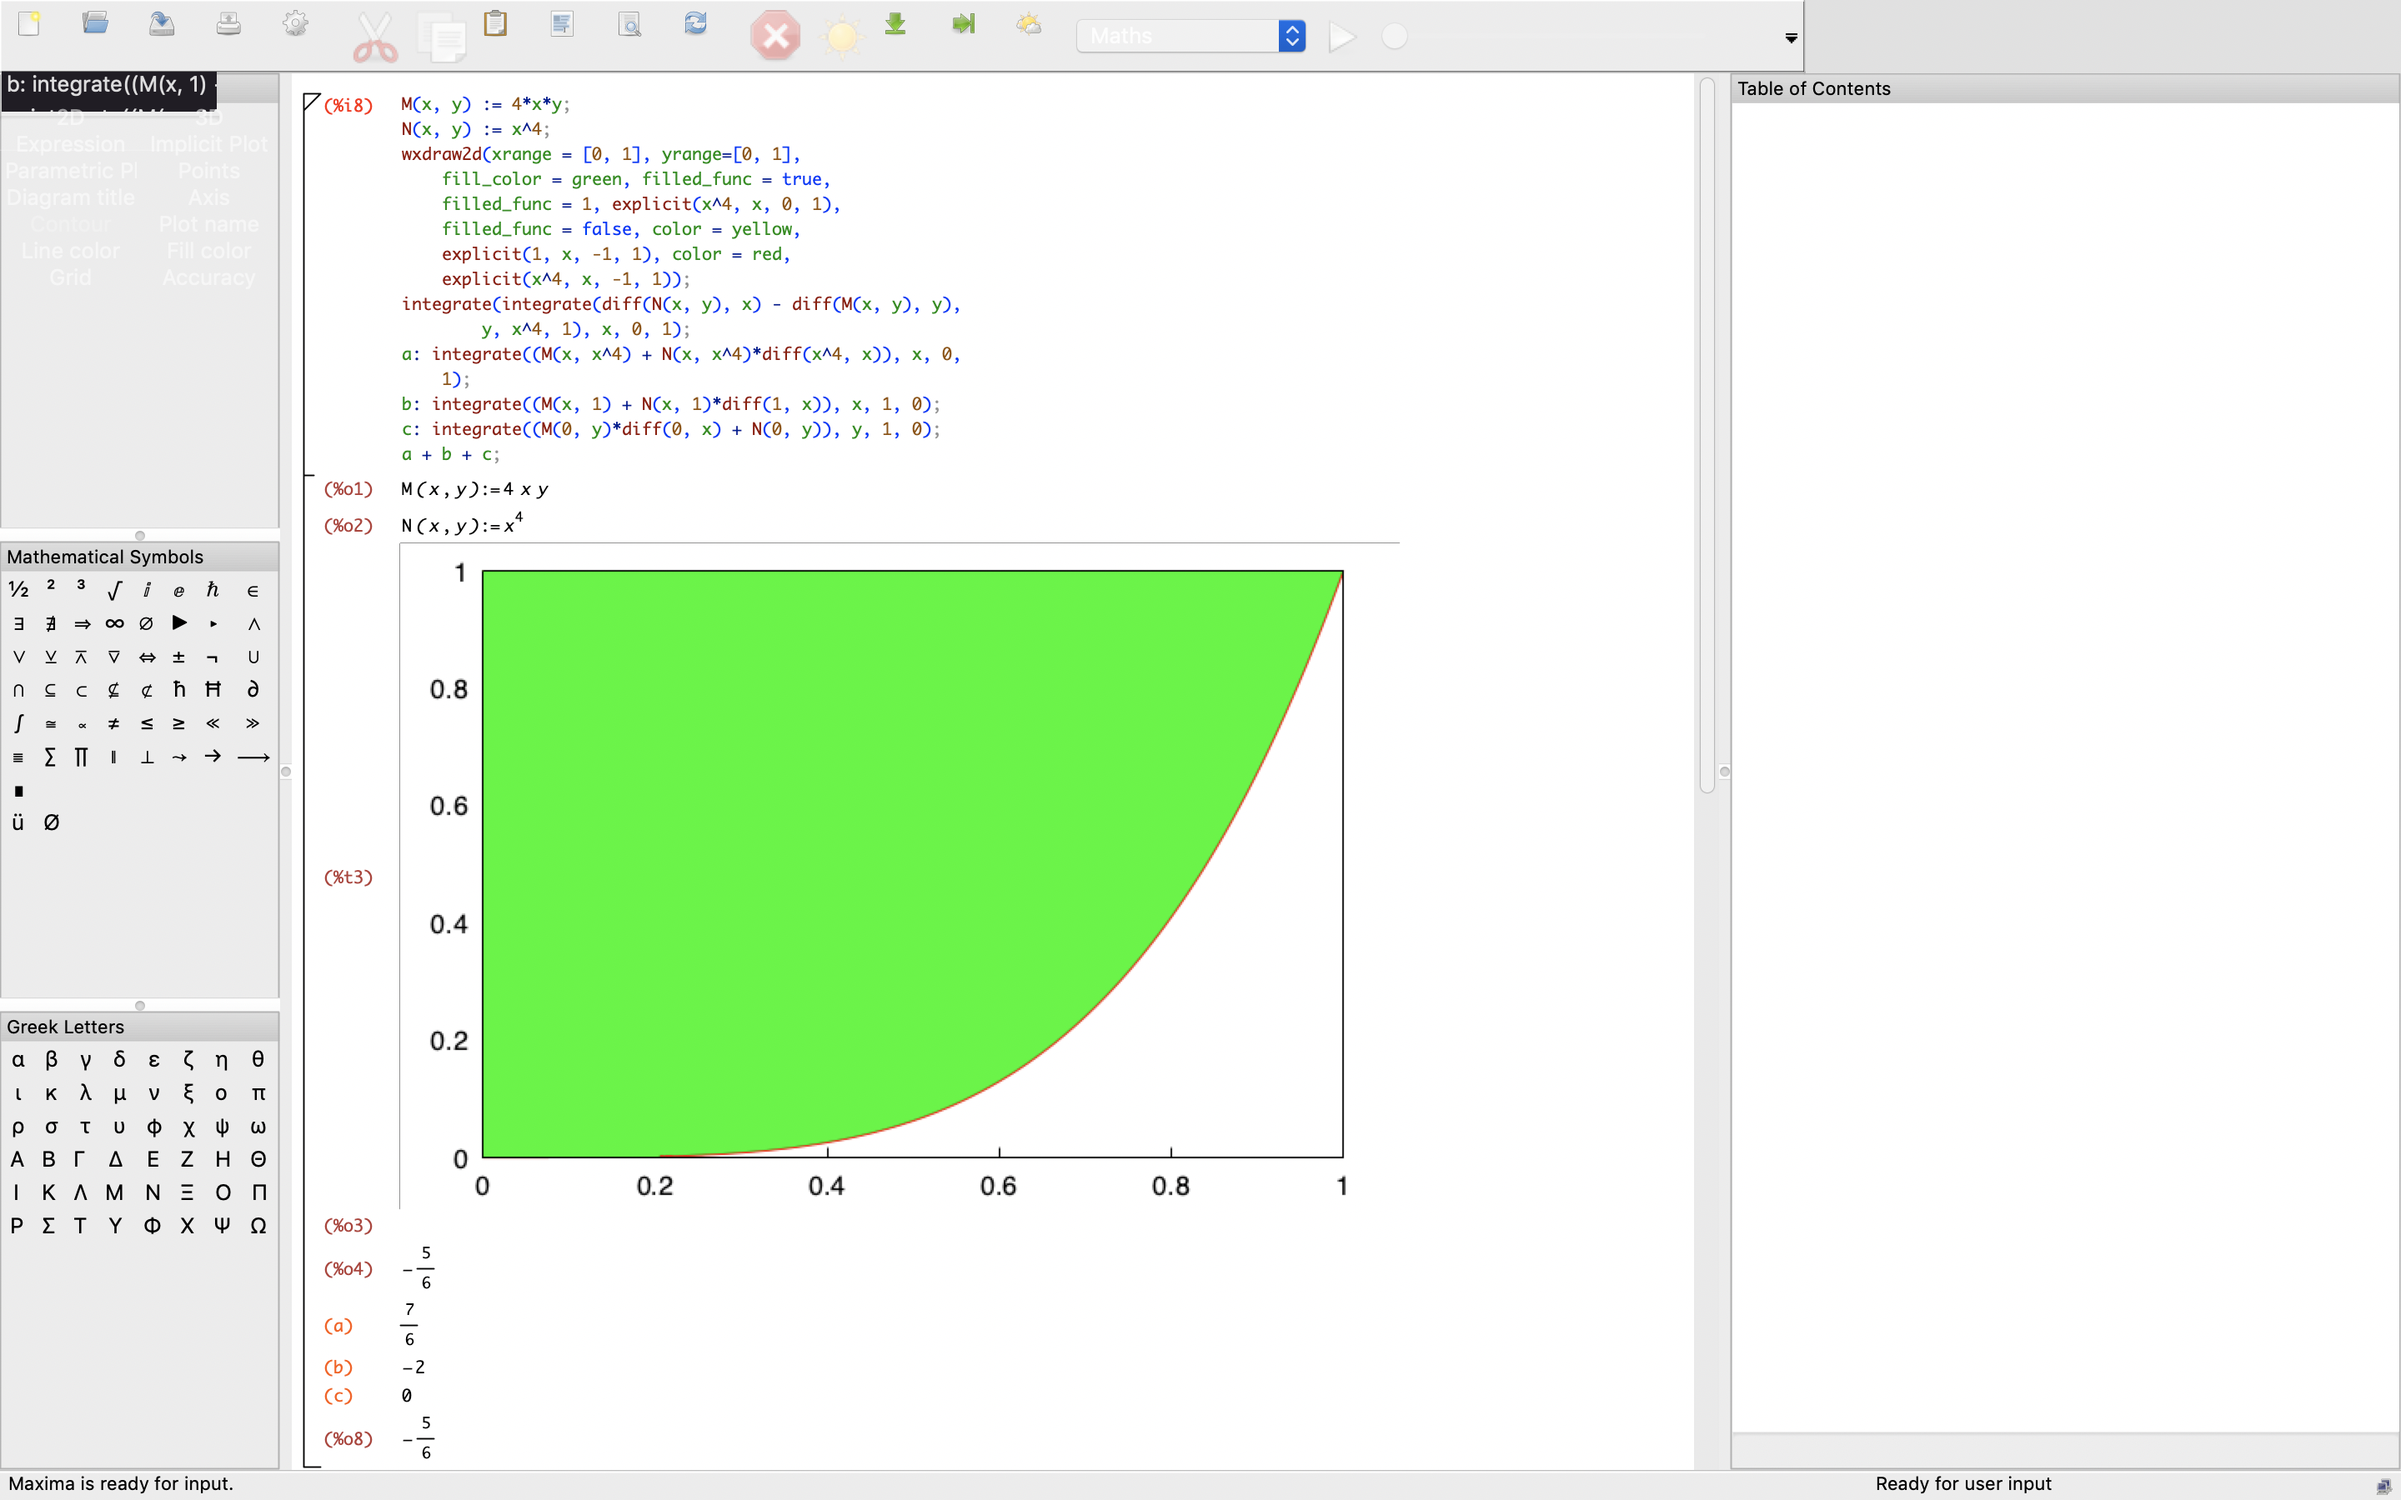
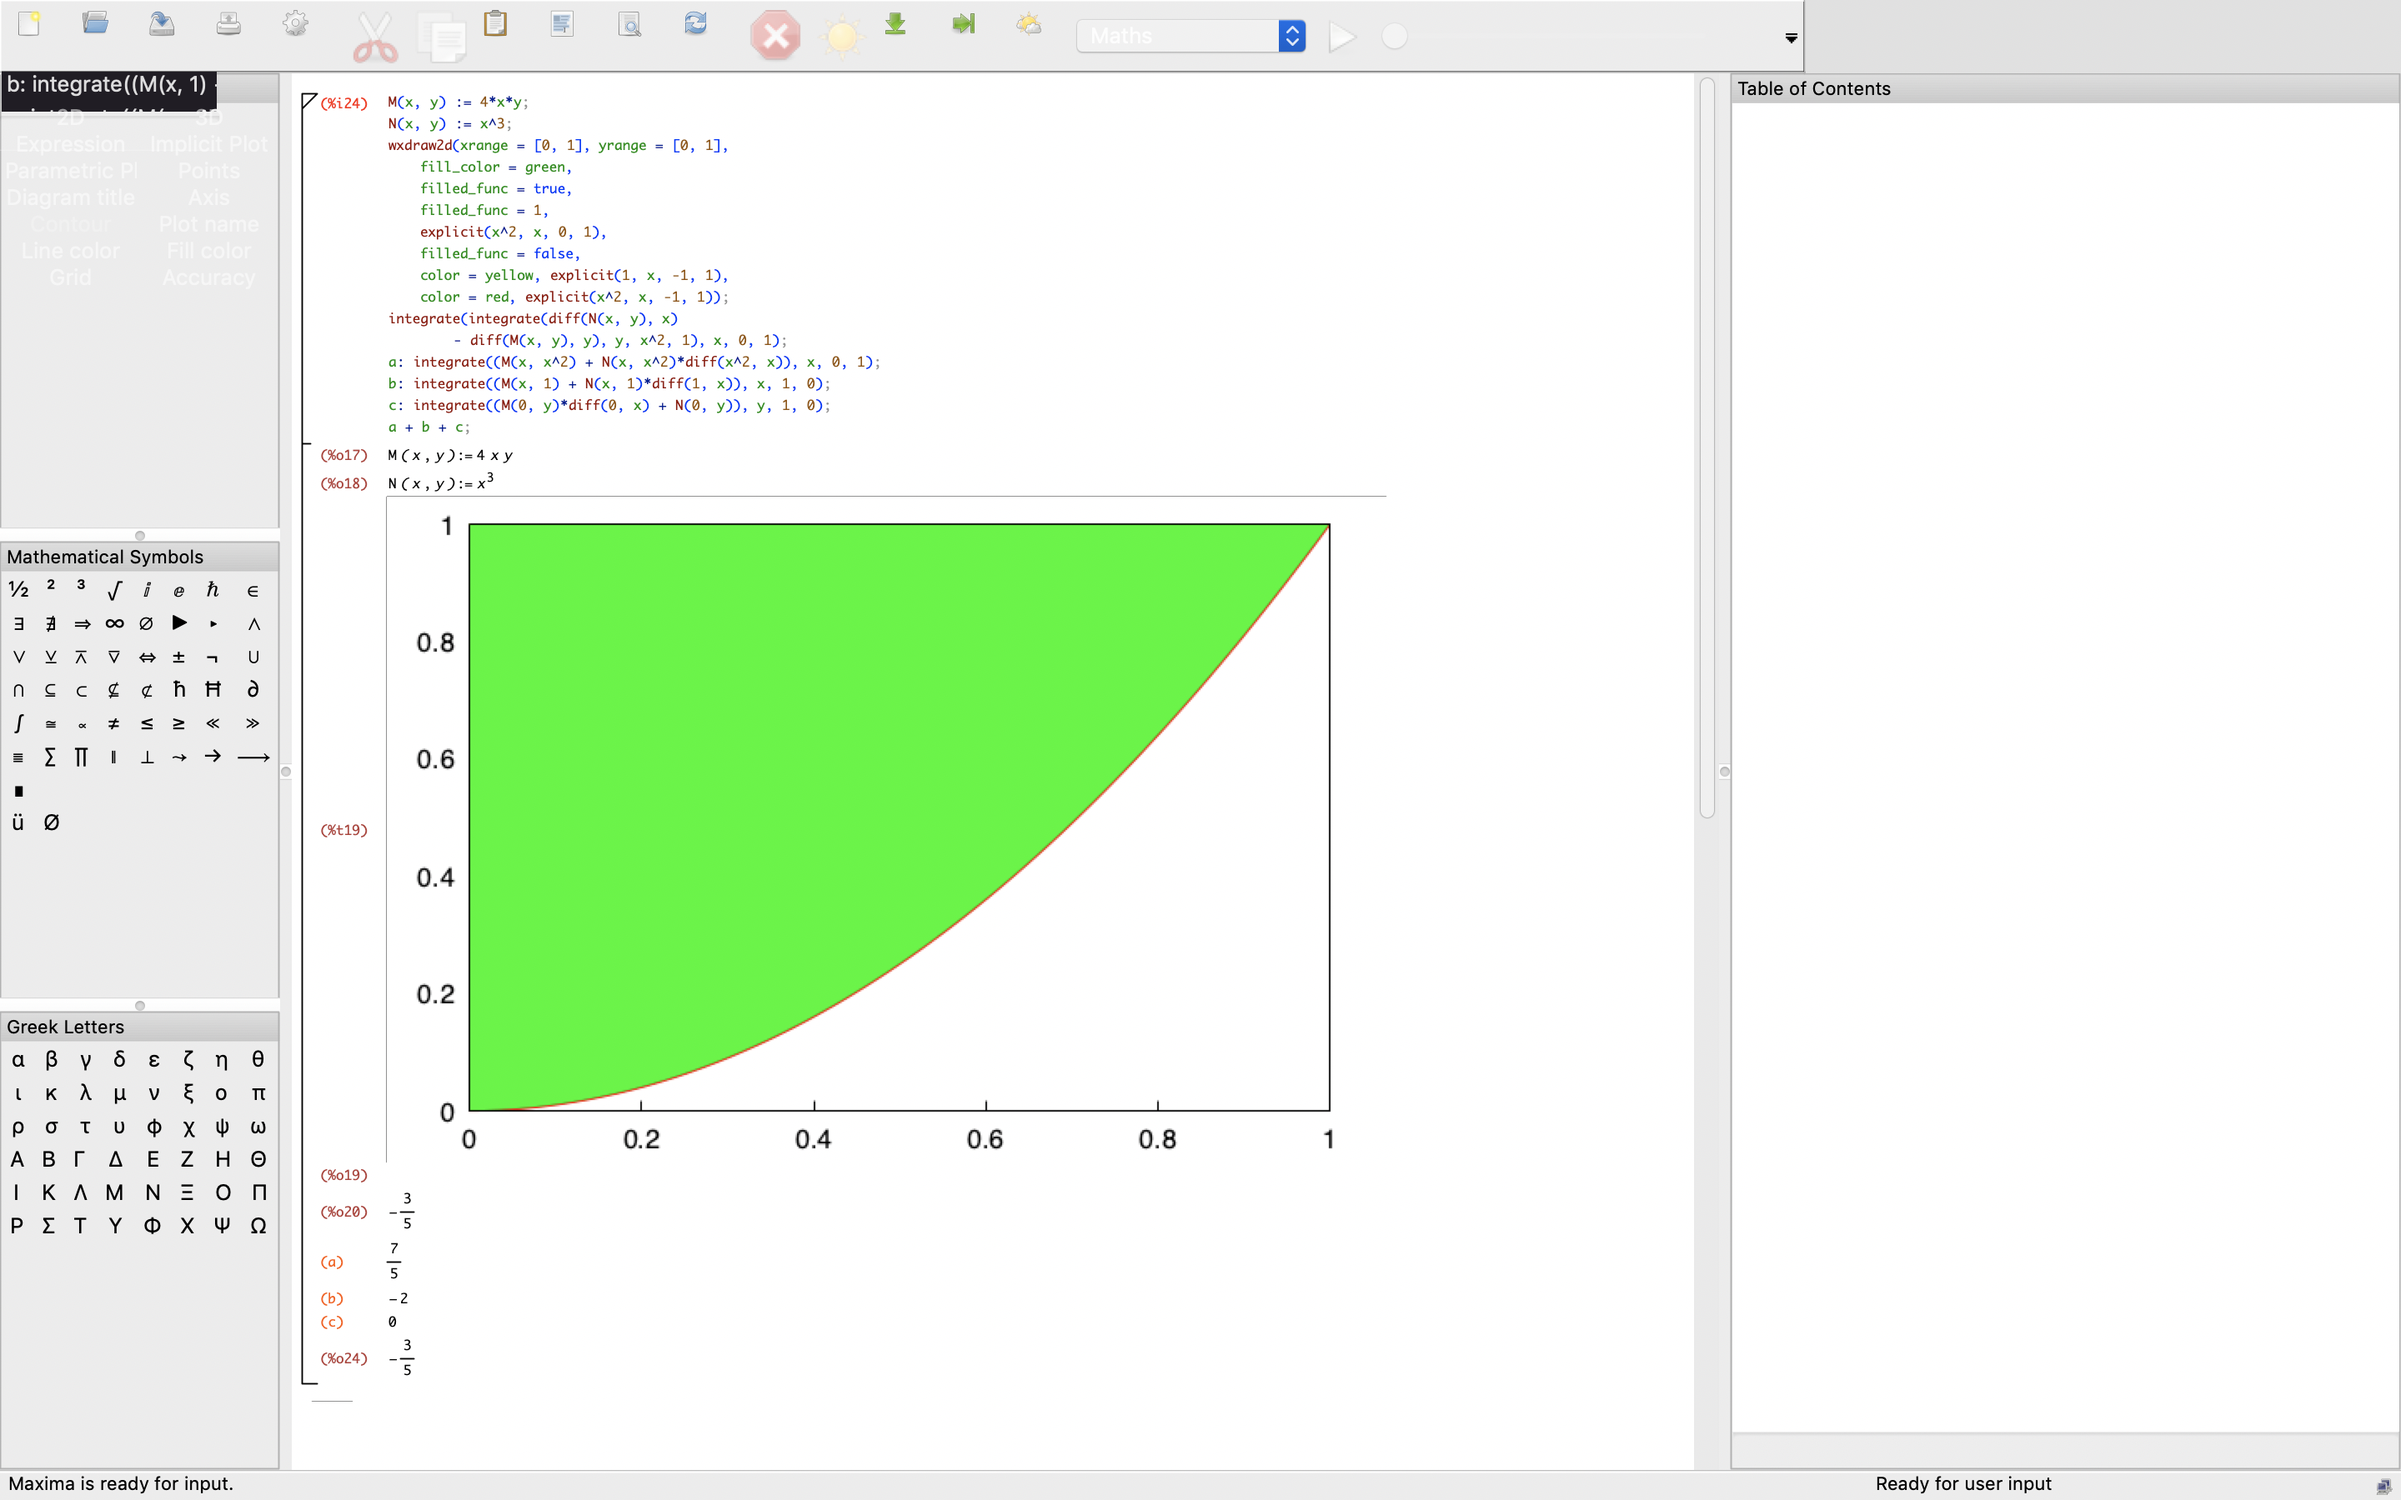
Update Green's theorem

diff --git a/src/Green's theorem/question.md b/src/Green's theorem/question.md
@@ -1,1 +1,1 @@
-Verify Green's theorem for the (4xy)dx + (x^4)dy over the  region y = x^2, y = 1 and x = 0.
+Verify Green's theorem for the (4xy)dx + (x^3)dy over the region y = x^2, y = 1 and x = 0.
